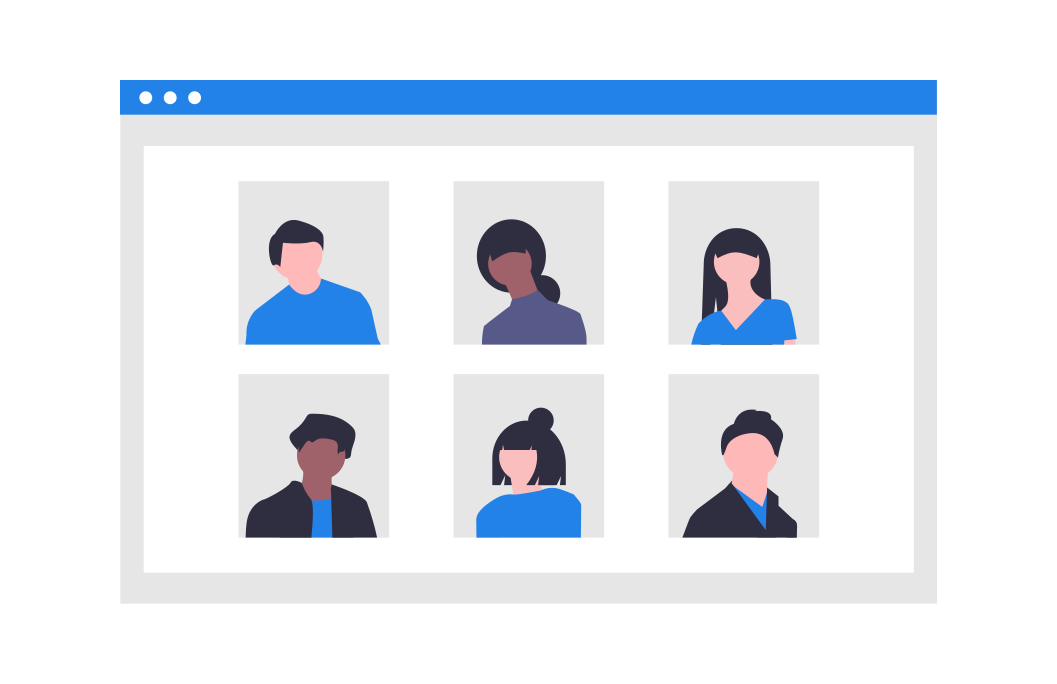
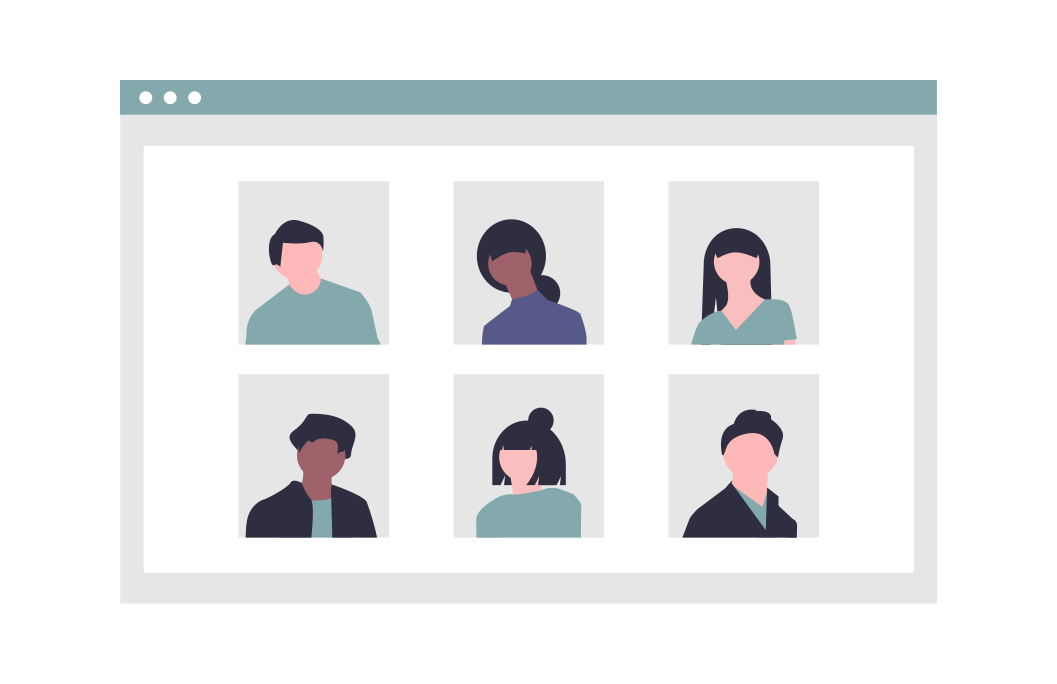
home color finished

diff --git a/src/views/Home.vue b/src/views/Home.vue
@@ -111,10 +111,10 @@
             #667db6);
     /* Chrome 10-25, Safari 5.1-6 */
     background: linear-gradient(to right,
-            rgba(9, 131, 212, 0.795),
-            rgba(46, 163, 241, 0.432),
-            rgba(20, 163, 240, 0.781),
-            rgba(102, 125, 182, 0.712)), url(../assets/illustration0.jpg);
+            rgba(32, 64, 81, 0.808),
+            rgba(59, 105, 120, 0.692),
+            rgba(132, 169, 172, 0.616),
+            rgba(202, 232, 213, 0.699)), url(../assets/illustration0.jpg);
     /* W3C, IE 10+/ Edge, Firefox 16+, Chrome 26+, Opera 12+, Safari 7+ */
 
     /* W3C, IE 10+/ Edge, Firefox 16+, Chrome 26+, Opera 12+, Safari 7+ */
@@ -189,7 +189,7 @@
 }
 
 .text-content h3 span {
-    background-color: #ede682;
+    background-color: #84a9ac;
     color: #fff;
     border-radius: 50%;
     text-align: center;
@@ -245,7 +245,7 @@
     height: 100%;
     top: 0;
     transform: scale(0);
-    background-color: hsla(56, 75%, 72%, 0.7);
+    background-color: hsla(142, 39%, 85%, 0.801);
     /* background-color: hsla(103, 58%, 75%,0.7); */
     transition: transform 0.5s;
     display: flex;
@@ -365,7 +365,7 @@ footer {
 
 .content-foo h4 {
     color: #f2f2f2;
-    border-bottom: 3px solid #ede682;
+    border-bottom: 3px solid #febf63;
     padding-bottom: 5px;
     margin-bottom: 10px;
 }
@@ -427,6 +427,11 @@ footer {
         text-align: center;
     }
 
+    .cards .card img {
+        width: 30%;
+        height: 30%;
+    }
+
     .service-indv:nth-child(1),
     .service-indv:nth-child(2) {
         margin-bottom: 60px;
@@ -479,8 +484,8 @@ footer {
     }
 
     .cards .card img {
-        width: 55%;
-        height: 25%;
+        width: 30%;
+        height: 30%;
     }
 
     .cards .card .content-text-card {
@@ -524,27 +529,27 @@ export default {
     data: () => ({
         sections: [{
                 name: "Audio Chat",
-                img: require("../assets/illustration4.png"),
+                img: require("../assets/ilustration2.png"),
                 description: "Speak with other person who are learing too",
             },
             {
                 name: "Speaking fight",
-                img: require("../assets/fight.png"),
+                img: require("../assets/ilustration6.png"),
                 description: "Compete with others to find out who has the best pronunciation",
             },
             {
                 name: "Out laud reading",
-                img: require("../assets/reading.png"),
+                img: require("../assets/ilustration3.png"),
                 description: "Read a text out loud to improve your pronunciation",
             },
             {
                 name: "Situations",
-                img: require("../assets/situations.png"),
+                img: require("../assets/ilustration4.png"),
                 description: "Improvise in diferent random situations",
             },
             {
                 name: "Describe pictures",
-                img: require("../assets/illustration2.png"),
+                img: require("../assets/ilustration5.png"),
                 description: "Describe pictures to improve your vocabulary",
             },
         ],

diff --git a/src/components/Navbar.vue b/src/components/Navbar.vue
@@ -1,13 +1,13 @@
 <template>
 <div>
-    <v-app-bar app absolute color="primary" elevate-on-scroll scroll-target="#scrolling-techniques-7">
+    <v-app-bar app absolute color="#3b6978" id="navbar-app" elevate-on-scroll scroll-target="#scrolling-techniques-7">
         <v-toolbar-title>
             <h1 class="fontTitle">TalkMe</h1>
         </v-toolbar-title>
         <v-spacer></v-spacer>
-        <v-app-bar-nav-icon color="#ffff" @click="drawer = true"></v-app-bar-nav-icon>
-        <v-btn depressed outlined color="#ffff" class="ma-2" @click.prevent="dialog=!dialog">Register</v-btn>
-        <v-btn depressed outlined color="#ffff" @click.prevent="dialogLogin=!dialogLogin">Login</v-btn>
+        <v-app-bar-nav-icon color="#cae8d5" @click="drawer = true"></v-app-bar-nav-icon>
+        <v-btn depressed outlined color="#cae8d5" class="ma-2" @click.prevent="dialog=!dialog">Register</v-btn>
+        <v-btn depressed outlined color="#cae8d5" @click.prevent="dialogLogin=!dialogLogin">Login</v-btn>
     </v-app-bar>
     <!-- REGISTER-->
     <v-row justify="center">
@@ -100,6 +100,10 @@
 .fontTitle {
     font-family: "Anton", sans-serif;
     color: #fff;
+}
+
+#navbar-app {
+    background: rgba(255, 255, 255, 0.315);
 }
 
 #iconTalkme {

diff --git a/public/index.html b/public/index.html
@@ -9,6 +9,7 @@
     <link href="https://fonts.googleapis.com/css2?family=Anton&display=swap" rel="stylesheet">
     <link href="https://fonts.googleapis.com/css2?family=Rowdies:wght@300;400;700&display=swap" rel="stylesheet">
     <link rel="stylesheet" href="https://cdn.jsdelivr.net/npm/@mdi/font@latest/css/materialdesignicons.min.css">
+    <link rel="stylesheet" href="index.css">
   </head>
   <body>
     <noscript>

diff --git a/src/App.vue b/src/App.vue
@@ -14,7 +14,7 @@
 <style>
 #bg-app {
     background: rgb(34, 56, 195);
-    background: linear-gradient(0deg, rgba(34, 56, 195, 1) 0%, rgba(45, 192, 253, 1) 100%);
+    background: linear-gradient(0deg, rgb(32, 64, 81) 0, rgb(202, 232, 213) 100%);
 }
 </style>
 

diff --git a/public/index.css b/public/index.css
@@ -1,0 +1,19 @@
+#color-app-1{
+    background-color: #204051;
+}
+
+
+#color-app-2{
+    background-color: #3b6978;
+}
+
+#color-app-3{
+    background-color: #84a9ac;
+}
+
+
+#color-app-4{
+    background-color: #cae8d5;
+}
+
+
